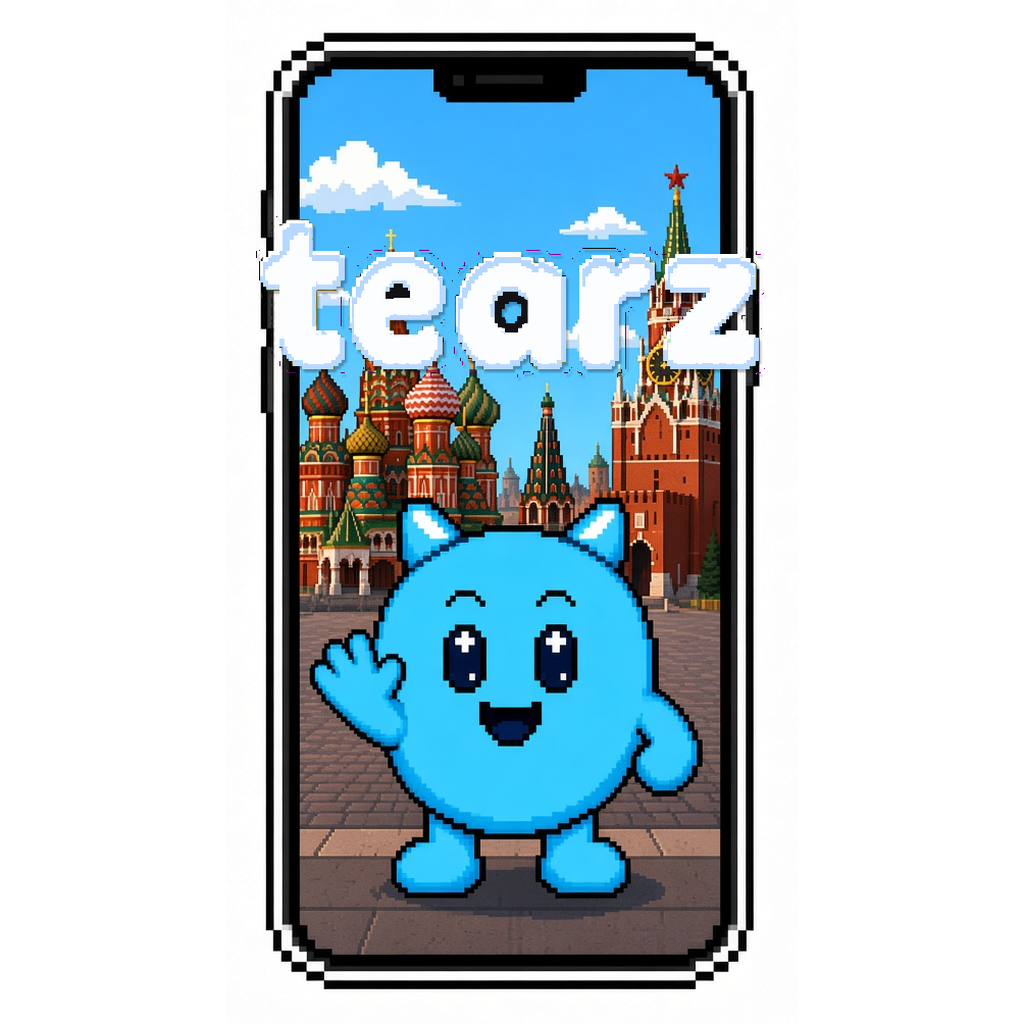
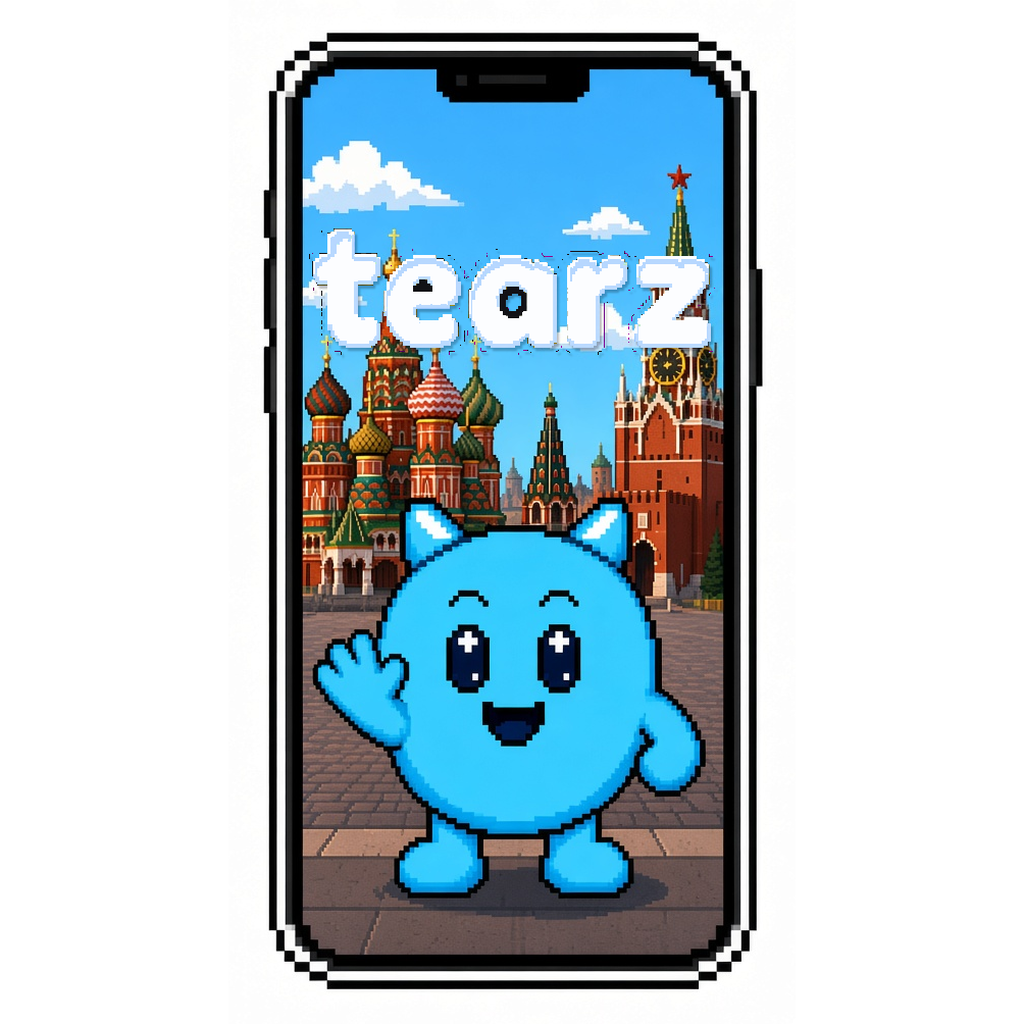
Shrink Tearz wordmark to fit inside phone screen.

diff --git a/landing/index.html b/landing/index.html
@@ -7,8 +7,8 @@
     <meta name="description" content="Tearz" />
     <meta http-equiv="Cache-Control" content="no-cache, no-store, must-revalidate" />
     <title>Tearz</title>
-    <link rel="icon" href="./assets/icon.png?v=14" type="image/png" />
-    <link rel="stylesheet" href="./styles.css?v=14" />
+    <link rel="icon" href="./assets/icon.png?v=15" type="image/png" />
+    <link rel="stylesheet" href="./styles.css?v=15" />
   </head>
   <body>
     <header class="top">
@@ -21,7 +21,7 @@
         <div class="mascot" id="mascot">
           <img
             class="mascot-img"
-            src="./assets/tearz-mascot.png?v=14"
+            src="./assets/tearz-mascot.png?v=15"
             alt="Tearz"
             width="720"
             height="720"
@@ -38,7 +38,7 @@
 
     <footer class="credit">mintimerakhmetshin</footer>
 
-    <script src="./config.js?v=14"></script>
-    <script src="./main.js?v=14"></script>
+    <script src="./config.js?v=15"></script>
+    <script src="./main.js?v=15"></script>
   </body>
 </html>

diff --git a/server/public/android/index.html b/server/public/android/index.html
@@ -7,8 +7,8 @@
     <meta name="description" content="Tearz" />
     <meta http-equiv="Cache-Control" content="no-cache, no-store, must-revalidate" />
     <title>Tearz</title>
-    <link rel="icon" href="./assets/icon.png?v=14" type="image/png" />
-    <link rel="stylesheet" href="./styles.css?v=14" />
+    <link rel="icon" href="./assets/icon.png?v=15" type="image/png" />
+    <link rel="stylesheet" href="./styles.css?v=15" />
   </head>
   <body>
     <header class="top">
@@ -21,7 +21,7 @@
         <div class="mascot" id="mascot">
           <img
             class="mascot-img"
-            src="./assets/tearz-mascot.png?v=14"
+            src="./assets/tearz-mascot.png?v=15"
             alt="Tearz"
             width="720"
             height="720"
@@ -38,7 +38,7 @@
 
     <footer class="credit">mintimerakhmetshin</footer>
 
-    <script src="./config.js?v=14"></script>
-    <script src="./main.js?v=14"></script>
+    <script src="./config.js?v=15"></script>
+    <script src="./main.js?v=15"></script>
   </body>
 </html>
